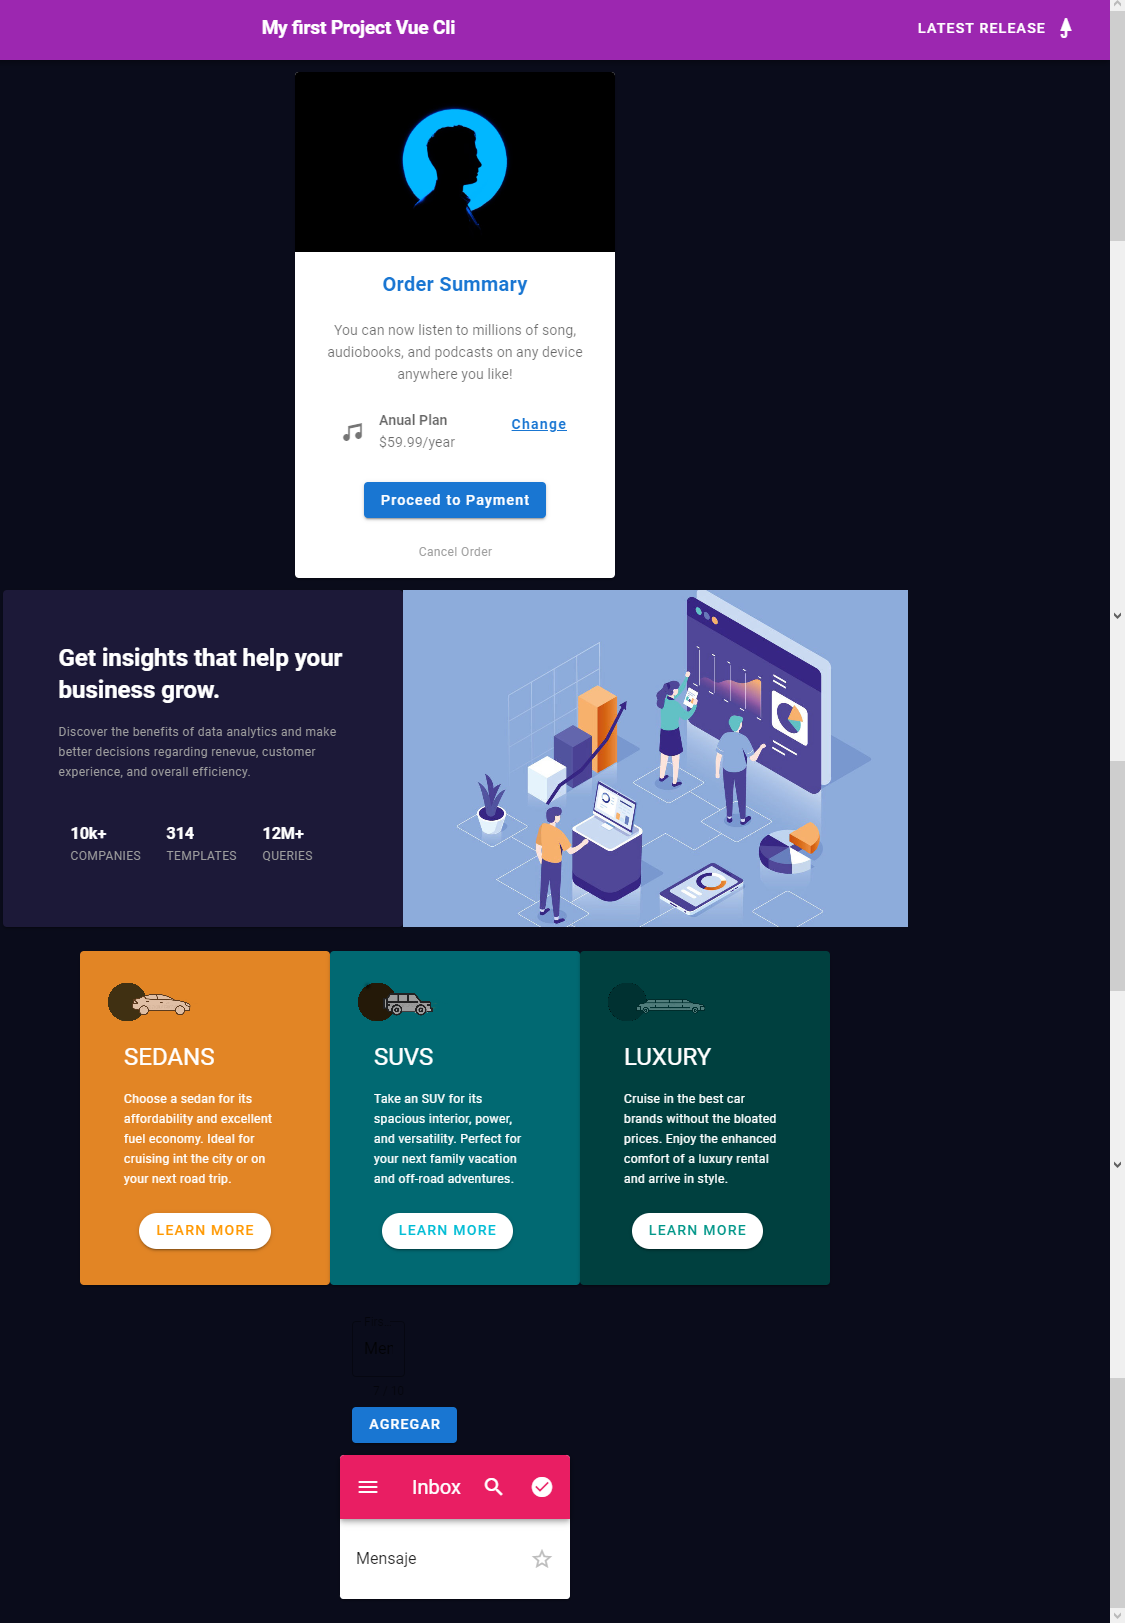
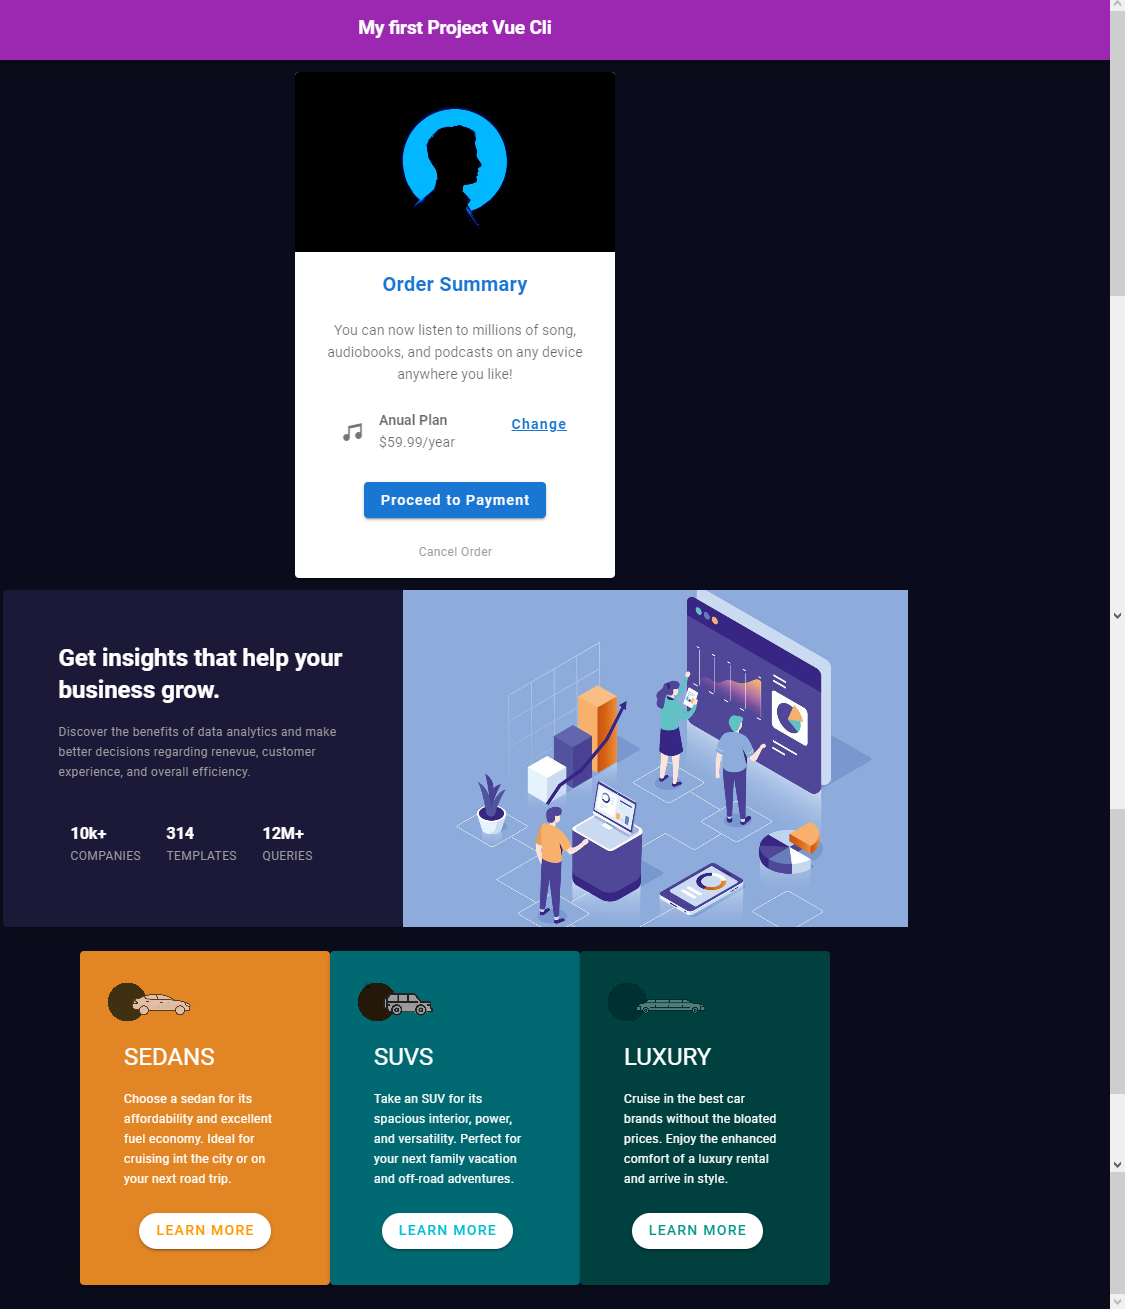
edit main page

diff --git a/src/App.vue b/src/App.vue
@@ -4,14 +4,6 @@
       <v-spacer></v-spacer>
       <h3 class="text-center">My first Project Vue Cli</h3>
       <v-spacer></v-spacer>
-      <v-btn
-        href="https://github.com/vuetifyjs/vuetify/releases/latest"
-        target="_blank"
-        text
-      >
-        <span class="mr-2">Latest Release</span>
-        <v-icon>mdi-umbrella-closed</v-icon>
-      </v-btn>
     </v-app-bar>
 
     <v-main>
